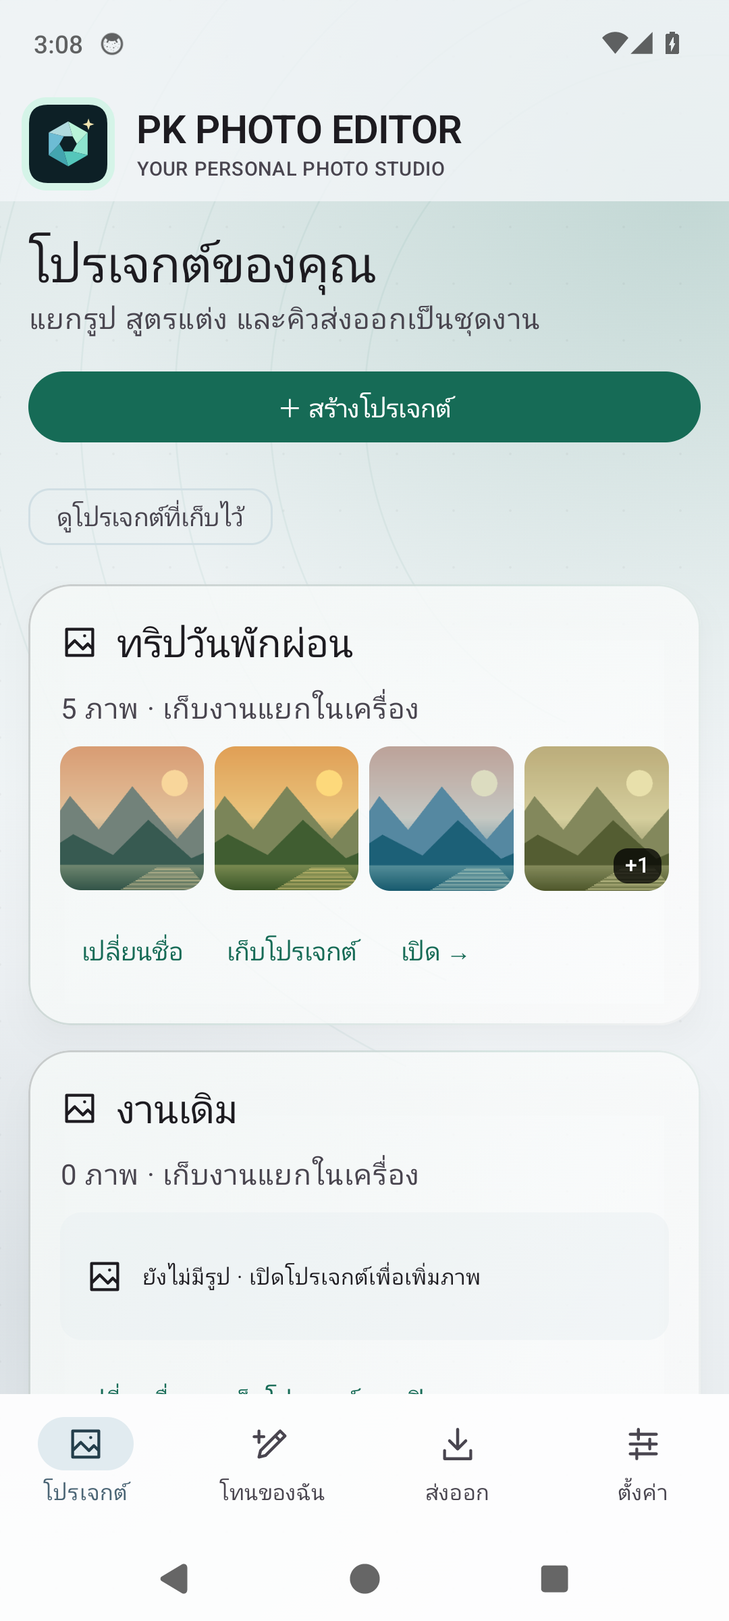
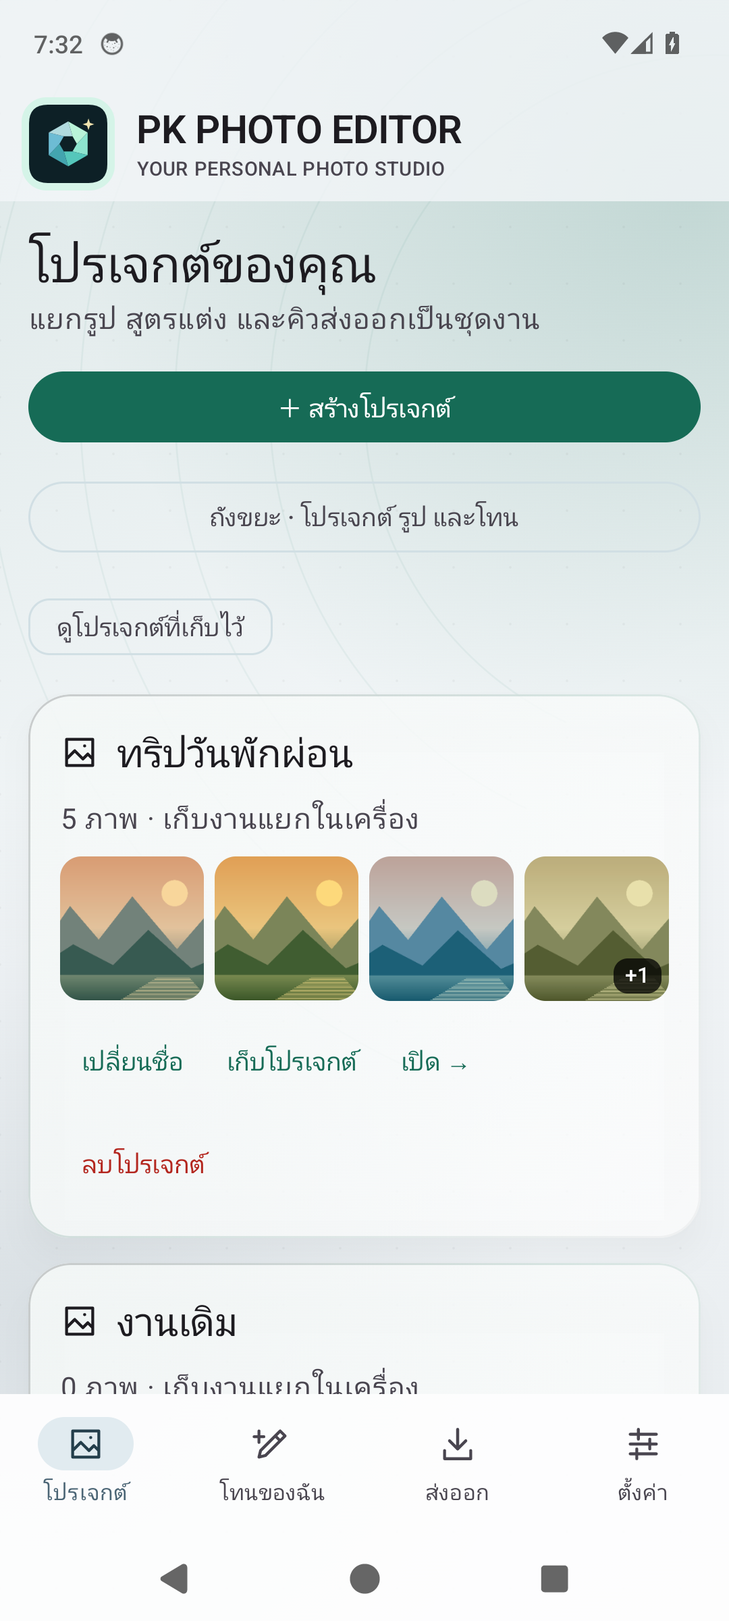
Release 0.5.0 recoverable trash and twelve tone collection

diff --git a/docs/index.html b/docs/index.html
@@ -1,13 +1,15 @@
 <!doctype html>
 <html lang="th"><head><meta charset="utf-8"><meta name="viewport" content="width=device-width,initial-scale=1"><meta name="theme-color" content="#101916"><meta name="description" content="PK PHOTO EDITOR โปรแกรมแต่งภาพบน Android 14 ขึ้นไป ปรับโทน แสง สี และจัดการภาพเป็นชุดบนเครื่องของคุณ"><title>PK PHOTO EDITOR — Make it your light.</title><link rel="icon" href="assets/pk-logo.svg" type="image/svg+xml"><link rel="preload" href="assets/NotoSansThai.ttf" as="font" type="font/ttf" crossorigin><link rel="stylesheet" href="style.css"></head>
 <body><a class="skip" href="#main">ข้ามไปเนื้อหา</a><header><a class="brand" href="#" aria-label="PK PHOTO EDITOR หน้าแรก"><img class="brand-symbol" src="assets/pk-logo.svg" width="56" height="56" alt="โลโก้ PK PHOTO EDITOR"><span>PK PHOTO<br>EDITOR</span></a><nav aria-label="เมนูหลัก"><a href="#studio">สตูดิโอ</a><a href="#features">เครื่องมือ</a><a href="#install">ติดตั้ง</a><a class="nav-download" href="https://github.com/hertzscream/PK-PHOTO-EDITOR/releases/latest">ดาวน์โหลด ↗</a></nav></header>
-<main id="main"><section class="hero"><div class="hero-copy"><p class="eyebrow"><span class="dot"></span> YOUR POCKET PHOTO STUDIO</p><h1>แสงของคุณ<br>ในแบบ<span class="serif">ของคุณ.</span></h1><p class="lead">เก็บบรรยากาศที่คุณรู้สึกไว้ในทุกภาพ<br>แต่งแสง ปรับสี คุมโทน ได้อย่างอิสระบน Android</p><div class="actions"><a class="button primary" href="https://github.com/hertzscream/PK-PHOTO-EDITOR/releases/latest/download/PK-PHOTO-EDITOR.apk">ดาวน์โหลด APK <span>↓</span></a><a class="text-link" href="#download-qr">สแกน QR Code ↗</a><a class="text-link" href="#studio">ชมหน้าจอจริง ↗</a></div><p class="meta">ANDROID 14+ <span>·</span> v0.4.2 รุ่นทดสอบ <span>·</span> ประมวลผลภาพบนเครื่อง</p></div><div class="hero-art"><div class="orb"></div><div class="phone"><div class="phone-top">PK PHOTO EDITOR <span>●</span></div><img src="assets/editor.png" width="450" height="1000" alt="หน้าจอแต่งภาพจริงของ PK PHOTO EDITOR" fetchpriority="high"><div class="phone-bottom"></div></div><div class="floating-note"><span>✦</span><div>YOUR NEXT EDIT<br><strong>เริ่มจากแสงที่ใช่</strong></div></div><span class="vertical-caption">LIGHT / COLOR / YOUR POINT OF VIEW</span></div></section>
+<main id="main"><section class="hero"><div class="hero-copy"><p class="eyebrow"><span class="dot"></span> YOUR POCKET PHOTO STUDIO</p><h1>แสงของคุณ<br>ในแบบ<span class="serif">ของคุณ.</span></h1><p class="lead">เก็บบรรยากาศที่คุณรู้สึกไว้ในทุกภาพ<br>แต่งแสง ปรับสี คุมโทน ได้อย่างอิสระบน Android</p><div class="actions"><a class="button primary" href="https://github.com/hertzscream/PK-PHOTO-EDITOR/releases/latest/download/PK-PHOTO-EDITOR.apk">ดาวน์โหลด APK <span>↓</span></a><a class="text-link" href="#download-qr">สแกน QR Code ↗</a><a class="text-link" href="#studio">ชมหน้าจอจริง ↗</a></div><p class="meta">ANDROID 14+ <span>·</span> v0.5.0 รุ่นทดสอบ <span>·</span> ประมวลผลภาพบนเครื่อง</p></div><div class="hero-art"><div class="orb"></div><div class="phone"><div class="phone-top">PK PHOTO EDITOR <span>●</span></div><img src="assets/editor.png" width="450" height="1000" alt="หน้าจอแต่งภาพจริงของ PK PHOTO EDITOR" fetchpriority="high"><div class="phone-bottom"></div></div><div class="floating-note"><span>✦</span><div>YOUR NEXT EDIT<br><strong>เริ่มจากแสงที่ใช่</strong></div></div><span class="vertical-caption">LIGHT / COLOR / YOUR POINT OF VIEW</span></div></section>
 <div class="ribbon"><span>LOCAL FIRST</span><span>แสง • สี • รายละเอียด</span><span>UNDO / REDO</span><span>ANDROID 14+</span></div>
-<section class="studio section" id="studio"><div class="section-heading"><p class="eyebrow">01 / THE STUDIO</p><h2>ทุกการปรับ<br><span class="muted">เห็นความเปลี่ยนแปลง.</span></h2><p>เลือกรูปแล้วเข้าแต่งได้ทันที มีภาพตัวอย่างอยู่ตรงหน้า เปรียบเทียบต้นฉบับ ย้อนกลับ และทำซ้ำได้โดยไม่แก้ไฟล์ต้นฉบับ</p></div><div class="screens"><figure><img src="assets/projects.png" alt="โปรเจกต์แยกชุดภาพและสูตรแต่ง" loading="lazy" width="450" height="1000"><figcaption><span>01</span> แยกงานเป็นโปรเจกต์</figcaption></figure><figure class="featured"><img src="assets/editor.png" alt="ตัวอย่างภาพ เครื่องมือปรับโทน และปุ่มย้อนกลับ" loading="lazy" width="450" height="1000"><figcaption><span>02</span> เครื่องมืออยู่ในมือคุณ</figcaption></figure><figure><img src="assets/tones.png" alt="หน้าจัดการโทนพร้อมภาพตัวอย่างที่ประมวลผลจริง" loading="lazy" width="450" height="1000"><figcaption><span>03</span> เห็นโทนก่อนเลือกใช้</figcaption></figure></div><p class="caption">ภาพหน้าจอจากแอปจริง ภาพประกอบสำหรับสาธิต ไม่มีภาพส่วนตัวของผู้ใช้</p></section>
-<section class="features section" id="features"><p class="eyebrow">02 / CREATIVE CONTROL</p><div class="feature-heading"><h2>น้อยขั้นตอน<br><span class="serif">มากความเป็นคุณ.</span></h2><p>จากโปรเจกต์เดียวถึงหลายชุด<br>ทำงานต่อได้ในจังหวะของคุณ</p></div><div class="feature-grid"><article><span class="feature-icon">◐</span><h3>คุมแสงและสี</h3><p>เห็นภาพตัวอย่างแต่ละโทนก่อนเลือก จัดโทนโปรด และปรับความเข้ม 0–200% ได้ตามใจ</p></article><article><span class="feature-icon">↶</span><h3>ลองได้อย่างอิสระ</h3><p>Undo / Redo แยกแต่ละรูป สลับภาพก่อนหน้าและถัดไปได้จากหน้าแต่ง</p></article><article><span class="feature-icon">▧</span><h3>ภาพเป็นชุดก็สะดวก</h3><p>เห็นภาพย่อในแต่ละโปรเจกต์ เลือกใช้โทนกับบางภาพหรือทั้งชุด แล้วส่งออก JPEG</p></article><article><span class="feature-icon">⌁</span><h3>ภาพอยู่บนเครื่อง</h3><p>การแต่งภาพทำงานแบบออฟไลน์ เชื่อมต่อ GitHub เมื่อคุณกดตรวจสอบหรือดาวน์โหลดอัปเดต</p></article></div></section>
+<section class="studio section" id="studio"><div class="section-heading"><p class="eyebrow">01 / THE STUDIO</p><h2>ทุกการปรับ<br><span class="muted">เห็นความเปลี่ยนแปลง.</span></h2><p>เลือกรูปแล้วเข้าแต่งได้ทันที มีภาพตัวอย่างอยู่ตรงหน้า เปรียบเทียบต้นฉบับ ย้อนกลับ และทำซ้ำได้โดยไม่แก้ไฟล์ต้นฉบับ</p></div><div class="screens"><figure><img src="assets/projects.png" alt="โปรเจกต์แยกชุดภาพและสูตรแต่ง" loading="lazy" width="450" height="1000"><figcaption><span>01</span> แยกงานเป็นโปรเจกต์</figcaption></figure><figure class="featured"><img src="assets/editor.png" alt="ตัวอย่างภาพ เครื่องมือปรับโทน และปุ่มย้อนกลับ" loading="lazy" width="450" height="1000"><figcaption><span>02</span> เครื่องมืออยู่ในมือคุณ</figcaption></figure><figure><img src="assets/tones.png" alt="หน้าจัดการโทนพร้อมภาพตัวอย่างที่ประมวลผลจริง" loading="lazy" width="450" height="1000"><figcaption><span>03</span> เห็นโทนก่อนเลือกใช้</figcaption></figure></div><p class="caption">ภาพหน้าจอจากแอปจริง มีภาพสาธิต AI สำหรับเทียบโทน ไม่มีภาพส่วนตัวของผู้ใช้</p></section>
+<section class="features section" id="features"><p class="eyebrow">02 / CREATIVE CONTROL</p><div class="feature-heading"><h2>น้อยขั้นตอน<br><span class="serif">มากความเป็นคุณ.</span></h2><p>จากโปรเจกต์เดียวถึงหลายชุด<br>ทำงานต่อได้ในจังหวะของคุณ</p></div><div class="feature-grid"><article><span class="feature-icon">◐</span><h3>คุมแสงและสี</h3><p>โทนมาตรฐาน 12 แบบ พร้อมภาพสาธิตเดียวกันเพื่อเทียบสี ปรับความเข้ม 0–200% ได้ตามใจ</p><a class="text-link" href="assets/tone-collection-050.jpg">ดูตัวอย่าง 12 โทน ↗</a></article><article><span class="feature-icon">↶</span><h3>ลองได้อย่างอิสระ</h3><p>Undo / Redo แยกแต่ละรูป ลบงานเข้าถังขยะแล้วกู้คืนได้ก่อนสั่งลบถาวร</p></article><article><span class="feature-icon">▧</span><h3>ภาพเป็นชุดก็สะดวก</h3><p>เห็นภาพย่อในแต่ละโปรเจกต์ เลือกใช้โทนกับบางภาพหรือทั้งชุด แล้วส่งออก JPEG</p></article><article><span class="feature-icon">⌁</span><h3>ภาพอยู่บนเครื่อง</h3><p>การแต่งภาพทำงานแบบออฟไลน์ เชื่อมต่อ GitHub เมื่อคุณกดตรวจสอบหรือดาวน์โหลดอัปเดต</p></article></div></section>
 <section class="install section" id="install"><div><p class="eyebrow">03 / GET STARTED</p><h2>สตูดิโอของคุณ<br><span class="serif">พร้อมเปิดแล้ว.</span></h2><p class="lead">สำหรับ Android 14 ขึ้นไป<br>ดาวน์โหลดโดยตรงจาก GitHub Releases</p><a class="button primary" href="https://github.com/hertzscream/PK-PHOTO-EDITOR/releases/latest/download/PK-PHOTO-EDITOR.apk">ดาวน์โหลด PK PHOTO EDITOR ↓</a><a class="release-link" href="https://github.com/hertzscream/PK-PHOTO-EDITOR/releases/latest">รายละเอียดเวอร์ชันและ SHA-256 ↗</a><div class="download-qr" id="download-qr" role="group" aria-labelledby="qr-title"><a class="qr-image-link" href="https://github.com/hertzscream/PK-PHOTO-EDITOR/releases/latest/download/PK-PHOTO-EDITOR.apk" aria-label="ดาวน์โหลด APK รุ่นล่าสุดของ PK PHOTO EDITOR"><img src="assets/download-qr.png" width="490" height="490" alt="QR Code สำหรับดาวน์โหลด PK PHOTO EDITOR รุ่นล่าสุด" loading="lazy"></a><div class="qr-copy"><p class="eyebrow">SCAN TO DOWNLOAD</p><h3 id="qr-title">สแกนแล้วโหลดบนมือถือ</h3><p>เปิดกล้องมือถือ Android แล้วสแกน QR Code เพื่อดาวน์โหลด APK รุ่นล่าสุด</p><a class="qr-save" href="assets/download-qr.png" download="PK-PHOTO-EDITOR-download-QR.png">บันทึก QR Code ↓</a><p class="qr-note">Android 14 ขึ้นไป · ดาวน์โหลดจาก GitHub Releases</p></div></div></div><ol><li><span>01</span><div><h3>ดาวน์โหลดและเปิด APK</h3><p>อนุญาตการติดตั้งจากแหล่งนี้ให้กับเบราว์เซอร์เมื่อ Android ขอ แล้วตรวจชื่อแอปก่อนติดตั้ง</p></div></li><li><span>02</span><div><h3>เลือกรูป เริ่มสร้างบรรยากาศ</h3><p>เลือกภาพผ่าน Photo Picker ต้นฉบับจะถูกคัดลอกไว้ในพื้นที่ส่วนตัวของแอป</p></div></li><li><span>03</span><div><h3>อัปเดตจากในแอป</h3><p>ไปที่ ตั้งค่า → ตรวจสอบอัปเดต แอปตรวจสอบไฟล์และลายเซ็นก่อนเปิดหน้าติดตั้งของ Android</p></div></li></ol></section>
-<section class="faq section"><p class="eyebrow">GOOD TO KNOW</p><details><summary>รุ่นนี้เป็นเวอร์ชันทดสอบหรือไม่?</summary><p>ใช่ รุ่น 0.4.2 เป็น APK สำหรับทดสอบ ใช้ debug signing เดิมเพื่ออัปเดตจากรุ่นก่อนหน้า ควรสำรองภาพที่ส่งออกแล้วก่อนเปลี่ยนเครื่องหรือถอนการติดตั้ง</p></details><details><summary>มีการส่งรูปขึ้นเซิร์ฟเวอร์หรือไม่?</summary><p>ไม่มีการอัปโหลดรูปเพื่อแต่งภาพ รูปและสูตรแต่งจัดเก็บบนเครื่อง การตรวจสอบอัปเดตติดต่อ GitHub เพื่อรับข้อมูลเวอร์ชันและ APK เท่านั้น</p></details><details><summary>ใช้กับ RAW หรือ HDR ได้หรือไม่?</summary><p>ระบบแต่งและส่งออกปัจจุบันเป็น SDR JPEG ไม่ใช่กระบวนการพัฒนา RAW หรือส่งออก HDR</p></details><details><summary>แจ้งปัญหาหรือเสนอเครื่องมือได้ที่ไหน?</summary><p><a href="https://github.com/hertzscream/PK-PHOTO-EDITOR/issues">เปิด Issue บน GitHub</a> พร้อมรุ่น Android และขั้นตอนที่พบปัญหา โปรดอย่าแนบภาพส่วนตัวหรือข้อมูลลับ</p></details></section></main>
+<section class="faq section"><p class="eyebrow">GOOD TO KNOW</p><details><summary>รุ่นนี้เป็นเวอร์ชันทดสอบหรือไม่?</summary><p>ใช่ รุ่น 0.5.0 เป็น APK สำหรับทดสอบ ใช้ debug signing เดิมเพื่ออัปเดตจากรุ่นก่อนหน้า ควรสำรองภาพที่ส่งออกแล้วก่อนเปลี่ยนเครื่องหรือถอนการติดตั้ง</p></details><details><summary>มีการส่งรูปขึ้นเซิร์ฟเวอร์หรือไม่?</summary><p>ไม่มีการอัปโหลดรูปเพื่อแต่งภาพ รูปและสูตรแต่งจัดเก็บบนเครื่อง การตรวจสอบอัปเดตติดต่อ GitHub เพื่อรับข้อมูลเวอร์ชันและ APK เท่านั้น</p></details><details><summary>ใช้กับ RAW หรือ HDR ได้หรือไม่?</summary><p>ระบบแต่งและส่งออกปัจจุบันเป็น SDR JPEG ไม่ใช่กระบวนการพัฒนา RAW หรือส่งออก HDR</p></details><details><summary>แจ้งปัญหาหรือเสนอเครื่องมือได้ที่ไหน?</summary><p><a href="https://github.com/hertzscream/PK-PHOTO-EDITOR/issues">เปิด Issue บน GitHub</a> พร้อมรุ่น Android และขั้นตอนที่พบปัญหา โปรดอย่าแนบภาพส่วนตัวหรือข้อมูลลับ</p></details></section></main>
 <footer><a class="brand" href="#">PK PHOTO EDITOR <span>✦</span></a><div class="developer-credit"><p>Make it your light.</p><span>พัฒนาโดย prasert sungthonglang</span></div><div><a href="privacy.html">ความเป็นส่วนตัว</a><a href="https://github.com/hertzscream/PK-PHOTO-EDITOR">GitHub ↗</a></div></footer></body></html>
+
+
 
 
 

diff --git a/docs/privacy.html b/docs/privacy.html
@@ -1,1 +1,2 @@
-<!doctype html><html lang="th"><head><meta charset="utf-8"><meta name="viewport" content="width=device-width,initial-scale=1"><title>ความเป็นส่วนตัว — PK PHOTO EDITOR</title><link rel="stylesheet" href="style.css"></head><body><main class="section" style="max-width:850px"><a href="index.html">← PK PHOTO EDITOR</a><p class="eyebrow" style="margin-top:50px">PRIVACY / 22 OCTOBER 2026</p><h1 style="font-size:40px">ภาพของคุณ<br>อยู่บนเครื่องคุณ</h1><p>PK PHOTO EDITOR ประมวลผลภาพบนอุปกรณ์ ไม่มีบัญชีผู้ใช้ โฆษณา หรือการอัปโหลดภาพไปแต่งบนเซิร์ฟเวอร์</p><h3>ข้อมูลที่เก็บบนเครื่อง</h3><p>รูปที่เลือกผ่าน Android Photo Picker จะถูกคัดลอกไว้ในพื้นที่ส่วนตัวของแอป พร้อมภาพย่อ สูตรแต่ง พรีเซ็ต ชื่อโปรเจกต์ ลำดับ/โปรด/ซ่อน/ถังขยะของโทน และการตั้งค่า การถอนแอปจะลบข้อมูลส่วนตัวนี้ ภาพที่ส่งออกไป MediaStore ยังคงอยู่จนกว่าคุณจะลบเอง</p><h3>การเชื่อมต่อ</h3><p>เมื่อคุณกดตรวจสอบหรือดาวน์โหลดอัปเดต แอปติดต่อแหล่ง HTTPS ที่ตั้งค่าไว้ ค่าเริ่มต้นคือ GitHub Releases ของ hertzscream/PK-PHOTO-EDITOR ไม่มีการแนบรูปหรือสูตรแต่งไปกับคำขอ ผู้ให้บริการเครือข่ายและ GitHub อาจเห็น IP และข้อมูลคำขอ HTTP ตามการทำงานของบริการนั้น</p><h3>เว็บไซต์นี้</h3><p>โฮสต์ด้วย GitHub Pages ไม่มีสคริปต์วิเคราะห์ผู้ชม คุกกี้ของแอป หรือฟอร์มรับภาพ นโยบายของ GitHub ใช้กับการเข้าใช้บริการ GitHub ด้วย</p><h3>การติดตั้งอัปเดต</h3><p>แอปตรวจ SHA-256 ชื่อแพ็กเกจ หมายเลขเวอร์ชัน และลายเซ็น APK ก่อนเปิดระบบติดตั้ง Android คุณเป็นผู้อนุญาตแหล่งติดตั้งและยืนยันการติดตั้ง</p><p><a href="https://github.com/hertzscream/PK-PHOTO-EDITOR/issues">ติดต่อผู้พัฒนาผ่าน GitHub Issues ↗</a></p></main></body></html>
+<!doctype html><html lang="th"><head><meta charset="utf-8"><meta name="viewport" content="width=device-width,initial-scale=1"><title>ความเป็นส่วนตัว — PK PHOTO EDITOR</title><link rel="stylesheet" href="style.css"></head><body><main class="section" style="max-width:850px"><a href="index.html">← PK PHOTO EDITOR</a><p class="eyebrow" style="margin-top:50px">PRIVACY / 22 OCTOBER 2026</p><h1 style="font-size:40px">ภาพของคุณ<br>อยู่บนเครื่องคุณ</h1><p>PK PHOTO EDITOR ประมวลผลภาพบนอุปกรณ์ ไม่มีบัญชีผู้ใช้ โฆษณา หรือการอัปโหลดภาพไปแต่งบนเซิร์ฟเวอร์</p><h3>ข้อมูลที่เก็บบนเครื่อง</h3><p>รูปที่เลือกผ่าน Android Photo Picker จะถูกคัดลอกไว้ในพื้นที่ส่วนตัวของแอป พร้อมภาพย่อ สูตรแต่ง พรีเซ็ต ชื่อโปรเจกต์ ลำดับ/โปรด/ซ่อน/ถังขยะของโทน และการตั้งค่า การถอนแอปจะลบข้อมูลส่วนตัวนี้ ภาพที่ส่งออกไป MediaStore ยังคงอยู่จนกว่าคุณจะลบเอง</p><h3>ถังขยะและภาพสาธิต</h3><p>การลบรูปหรือโปรเจกต์จะเก็บสำเนาและสูตรไว้ในถังขยะจนกว่าจะยืนยันลบถาวร ไม่มีการล้างอัตโนมัติ ต้นฉบับและ JPEG ส่งออกยังอยู่ ภาพบุคคลที่ใช้เทียบโทนเป็นภาพสาธิต AI ที่ติดตั้งมากับแอป ไม่ใช่รูปผู้ใช้ และไม่มีการเรียกบริการ AI ขณะใช้แอป</p><h3>การเชื่อมต่อ</h3><p>เมื่อคุณกดตรวจสอบหรือดาวน์โหลดอัปเดต แอปติดต่อแหล่ง HTTPS ที่ตั้งค่าไว้ ค่าเริ่มต้นคือ GitHub Releases ของ hertzscream/PK-PHOTO-EDITOR ไม่มีการแนบรูปหรือสูตรแต่งไปกับคำขอ ผู้ให้บริการเครือข่ายและ GitHub อาจเห็น IP และข้อมูลคำขอ HTTP ตามการทำงานของบริการนั้น</p><h3>เว็บไซต์นี้</h3><p>โฮสต์ด้วย GitHub Pages ไม่มีสคริปต์วิเคราะห์ผู้ชม คุกกี้ของแอป หรือฟอร์มรับภาพ นโยบายของ GitHub ใช้กับการเข้าใช้บริการ GitHub ด้วย</p><h3>การติดตั้งอัปเดต</h3><p>แอปตรวจ SHA-256 ชื่อแพ็กเกจ หมายเลขเวอร์ชัน และลายเซ็น APK ก่อนเปิดระบบติดตั้ง Android คุณเป็นผู้อนุญาตแหล่งติดตั้งและยืนยันการติดตั้ง</p><p><a href="https://github.com/hertzscream/PK-PHOTO-EDITOR/issues">ติดต่อผู้พัฒนาผ่าน GitHub Issues ↗</a></p></main></body></html>
+

diff --git a/TONE_COLLECTION_0.5.0.md b/TONE_COLLECTION_0.5.0.md
@@ -1,0 +1,36 @@
+# PK PHOTO EDITOR — ชุดโทน 0.5.0
+
+22 ตุลาคม 2026 — ชุดมาตรฐาน 12 โทน: 10 สูตรใหม่ + DSLR Café/Sea เดิม โทนส่วนตัวเก็บแยกจากจำนวนนี้
+
+## การศึกษาและการออกแบบ
+
+ศึกษากลุ่มโทนและการอธิบายลักษณะภาพจาก [VSCO Preset Guide](https://support.vsco.co/en/articles/12698471-preset-guide), กลุ่ม Black & White / Cinematic / Film-Inspired / Vintage ใน [Adobe Lightroom](https://helpx.adobe.com/lightroom/web/edit-photos/use-presets/apply-presets.html) และแนวทางควบคุมความสว่างกับ saturation ใน [Snapseed Vintage](https://support.google.com/snapseed/answer/3113631?hl=en)
+
+สิ่งที่นำมาศึกษาคือแนวทางกว้าง ๆ ของภาพ เช่น ผิวอุ่น สีเย็น ภาพจาง และขาวดำ จากนั้นเขียนค่าปรับใหม่ด้วย color engine ของแอป ไม่ได้นำ preset file, LUT, ชื่อฟิลเตอร์ หรือภาพตัวอย่างของบริการเหล่านั้นมาแจก ไม่อ้างว่าเหมือนฟิลเตอร์ใดแบบตรงตัวหรือเป็นพันธมิตรกับบริการนั้น
+
+| โทน | แนวทางและการปรับ |
+|---|---|
+| PK Clean Light | แสงสะอาด เงาเปิด ไฮไลต์นุ่ม สีสมดุล |
+| PK Color Pop | เพิ่มมิติด้วย contrast / vibrance และสีสดขึ้น |
+| PK Soft Portrait | คอนทราสต์นุ่ม ผิวอุ่นเล็กน้อย ลด saturation |
+| PK Golden Hour | อุณหภูมิแสงอุ่น ไฮไลต์นุ่ม เงาเปิด |
+| PK Cool Air | สีเย็น สว่าง เงาโปร่ง |
+| PK Muted Film | สีจาง คอนทราสต์ลด ยกระดับเงา |
+| PK Olive Travel | สีสุขุม อุ่นอมเขียว สำหรับธรรมชาติ |
+| PK Urban Steel | คอนทราสต์สูง เย็น ลดสี เงาแน่น |
+| PK Cinema Teal | บรรยากาศเย็นอมเขียวเข้ม สีสงบ |
+| PK Classic Mono | ขาวดำ คอนทราสต์ชัด เงายังคงรายละเอียด |
+| PK DSLR Café | โปรไฟล์และค่าเดิมจากตัวอย่างที่เจ้าของให้ LUT ไม่เปลี่ยน |
+| PK DSLR Sea | โปรไฟล์และค่าเดิมจากตัวอย่างที่เจ้าของให้ LUT ไม่เปลี่ยน |
+
+สูตรใหม่ปิด Auto เมื่อเลือกเพื่อให้แนวทางสีคงที่ ผู้ใช้เปิด Auto เพิ่มได้ ความเข้มยังปรับ 0–200% ได้ ผลขึ้นกับแสงและสีต้นฉบับ สูตรใหม่เป็น global color/light controls ไม่ใช่ film-stock simulation, split-toning แยกเงา/ไฮไลต์, grain, vignette หรือรีทัชใบหน้า
+
+## ภาพสาธิต
+
+`app/src/main/assets/samples/tone-demo-v1.jpg` เป็นภาพที่สร้างด้วย imagegen สำหรับโครงการนี้: บุคคลสมมติที่คาเฟ่ มีสีผิว เสื้อครีม ท้องฟ้า ใบไม้ ดอกไม้แดง และพื้นผิวในส่วนสว่าง/เงา ไม่มีรูปส่วนตัวหรือข้อมูลจากโปรเจกต์ผู้ใช้ เป็นภาพเดียวกันทุกโทนในหน้าจัดการที่ 100% ตัวบุคคลเป็นภาพสังเคราะห์ ไม่ใช่ผู้ใช้หรือภาพรับรองผลิตภัณฑ์
+
+หน้าเลือกโทนระหว่างแต่งยังใช้รูปที่เปิดอยู่ตามเดิม ภาพย่อครอปให้พอดีกรอบ และรายละเอียดที่ขนาดย่ออาจต่างจาก export เต็มขนาด
+
+## งานเก่า
+
+เก็บนิยามเก่าและ LUT เดิมไว้เพื่ออ่านสูตรที่บันทึกแล้ว โทนมาตรฐานที่เลิกแสดง: Natural, Vivid, Portrait Soft, Golden Warm, Landscape Clear และ DSLR Teal สูตรภาพเก่าไม่ถูกเขียนใหม่ หากเคยตั้งชื่อ/แก้สูตร หรือเก็บโทนเก่าในถังขยะ migration จะเก็บเป็นโทนส่วนตัว `legacy-*` พร้อมสถานะเดิม ไม่แก้โทนส่วนตัวที่บันทึกอยู่แล้ว

diff --git a/RELEASE_NOTES.md b/RELEASE_NOTES.md
@@ -1,11 +1,13 @@
-PK PHOTO EDITOR 0.4.2 — เห็นภาพก่อนเปิดงานและเลือกโทน
+PK PHOTO EDITOR 0.5.0 — ถังขยะและคอลเลกชันโทนใหม่
 
-- การ์ดโปรเจกต์แสดงภาพย่อจากรูปในโปรเจกต์สูงสุด 4 รูป พร้อมจำนวนรูปที่เหลือและสถานะโปรเจกต์ว่าง
-- ภาพย่อโปรเจกต์แสดงตามสูตรแต่งที่บันทึกไว้ และเปลี่ยนตามการแก้ภาพ
-- หน้าเลือกโทนใช้ภาพที่เปิดอยู่สร้างตัวอย่างด้วยสูตรจริงที่ความเข้ม 100% แทนแถบสี ปรับความเข้มต่อหลังเลือกได้
-- หน้าจัดการโทนมีภาพตัวอย่างของแต่ละโทน รวมโทนส่วนตัวและสูตรที่แก้ไขเอง
-- เมื่อยังไม่เปิดรูป ใช้ภาพสาธิตเดียวกันเพื่อเทียบโทนได้ง่าย
-- ประมวลผลภาพย่อแบบยกเลิกได้ มีแคชหน่วยความจำจำกัด และโหลดเฉพาะรายการที่แสดง
+- ลบโปรเจกต์และเลือกลบภาพในโปรเจกต์ได้ โดยย้ายเข้าถังขยะก่อน
+- ถังขยะรวมโปรเจกต์ รูป และโทน กู้คืนได้ ไม่มีการล้างอัตโนมัติ
+- ลบถาวรมีคำยืนยัน ลบเฉพาะสำเนา/ข้อมูลในแอป ไม่แตะต้นฉบับหรือ JPEG ส่งออก
+- โปรเจกต์ที่ลบจะเก็บรูปและสูตรไว้ เมื่อลบรูปแยกก่อนลบโปรเจกต์ รูปนั้นยังอยู่ในถังขยะหลังคืนโปรเจกต์
+- หน้าจัดการโทนใช้ภาพสาธิต AI ใหม่ภาพเดียวกันทุกโทน ไม่ใช้รูปในโปรเจกต์
+- หน้าเลือกโทนระหว่างแต่งยังใช้ภาพที่เปิดอยู่ตามเดิม
+- โทนมาตรฐาน 12 แบบ: 10 สูตรใหม่ + DSLR Café และ DSLR Sea เดิม
+- เก็บสูตรภาพเก่าและโทนส่วนตัว โทนเก่าที่เคยปรับชื่อ/สูตรหรือเก็บในถังขยะจะย้ายเป็นโทนส่วนตัว
 
-Android 14 ขึ้นไป versionCode 8 ใช้ลายเซ็น debug เดิม ติดตั้งทับได้โดยไม่ถอนแอป คงงานและสูตรเดิม ไม่มีการอัปโหลดรูป
-รุ่นทดสอบ ยังไม่มีระบบสำรองโปรเจกต์ ห้ามถอนแอปหรือล้างข้อมูลหากต้องการเก็บงาน
+Android 14 ขึ้นไป versionCode 9 ใช้ลายเซ็น debug เดิม ติดตั้งทับได้โดยไม่ถอนแอป ย้ายฐานข้อมูลโดยไม่ล้างงาน
+รุ่นทดสอบ ถังขยะไม่ใช่การสำรองข้อมูล การถอนแอปหรือล้างข้อมูลยังทำให้งานในแอปหาย

diff --git a/README.md b/README.md
@@ -5,7 +5,7 @@ Official website and Android APK releases for PK PHOTO EDITOR.
 - Website: https://hertzscream.github.io/PK-PHOTO-EDITOR/
 - Download: https://github.com/hertzscream/PK-PHOTO-EDITOR/releases/latest
 - Android 14 or later (API 34+)
-- Current version: 0.4.2 (versionCode 8), testing build signed with the existing debug certificate.
+- Current version: 0.5.0 (versionCode 9), testing build signed with the existing debug certificate.
 
 ## ใช้งาน
 
@@ -43,4 +43,7 @@ Official website and Android APK releases for PK PHOTO EDITOR.
 
 
 0.4.2 แสดงภาพย่อในการ์ดโปรเจกต์ และตัวอย่างโทนจริงบนรูปที่เปิดอยู่หรือภาพสาธิตเมื่อยังไม่เปิดรูป
+
+
+0.5.0 เพิ่มถังขยะสำหรับโปรเจกต์ รูป และโทน พร้อมกู้คืน/ยืนยันลบถาวร และโทนมาตรฐาน12แบบ (10ใหม่+DSLR Café/Sea) หน้าจัดการใช้ภาพสาธิต AI เดียวกันทุกโทน
 
